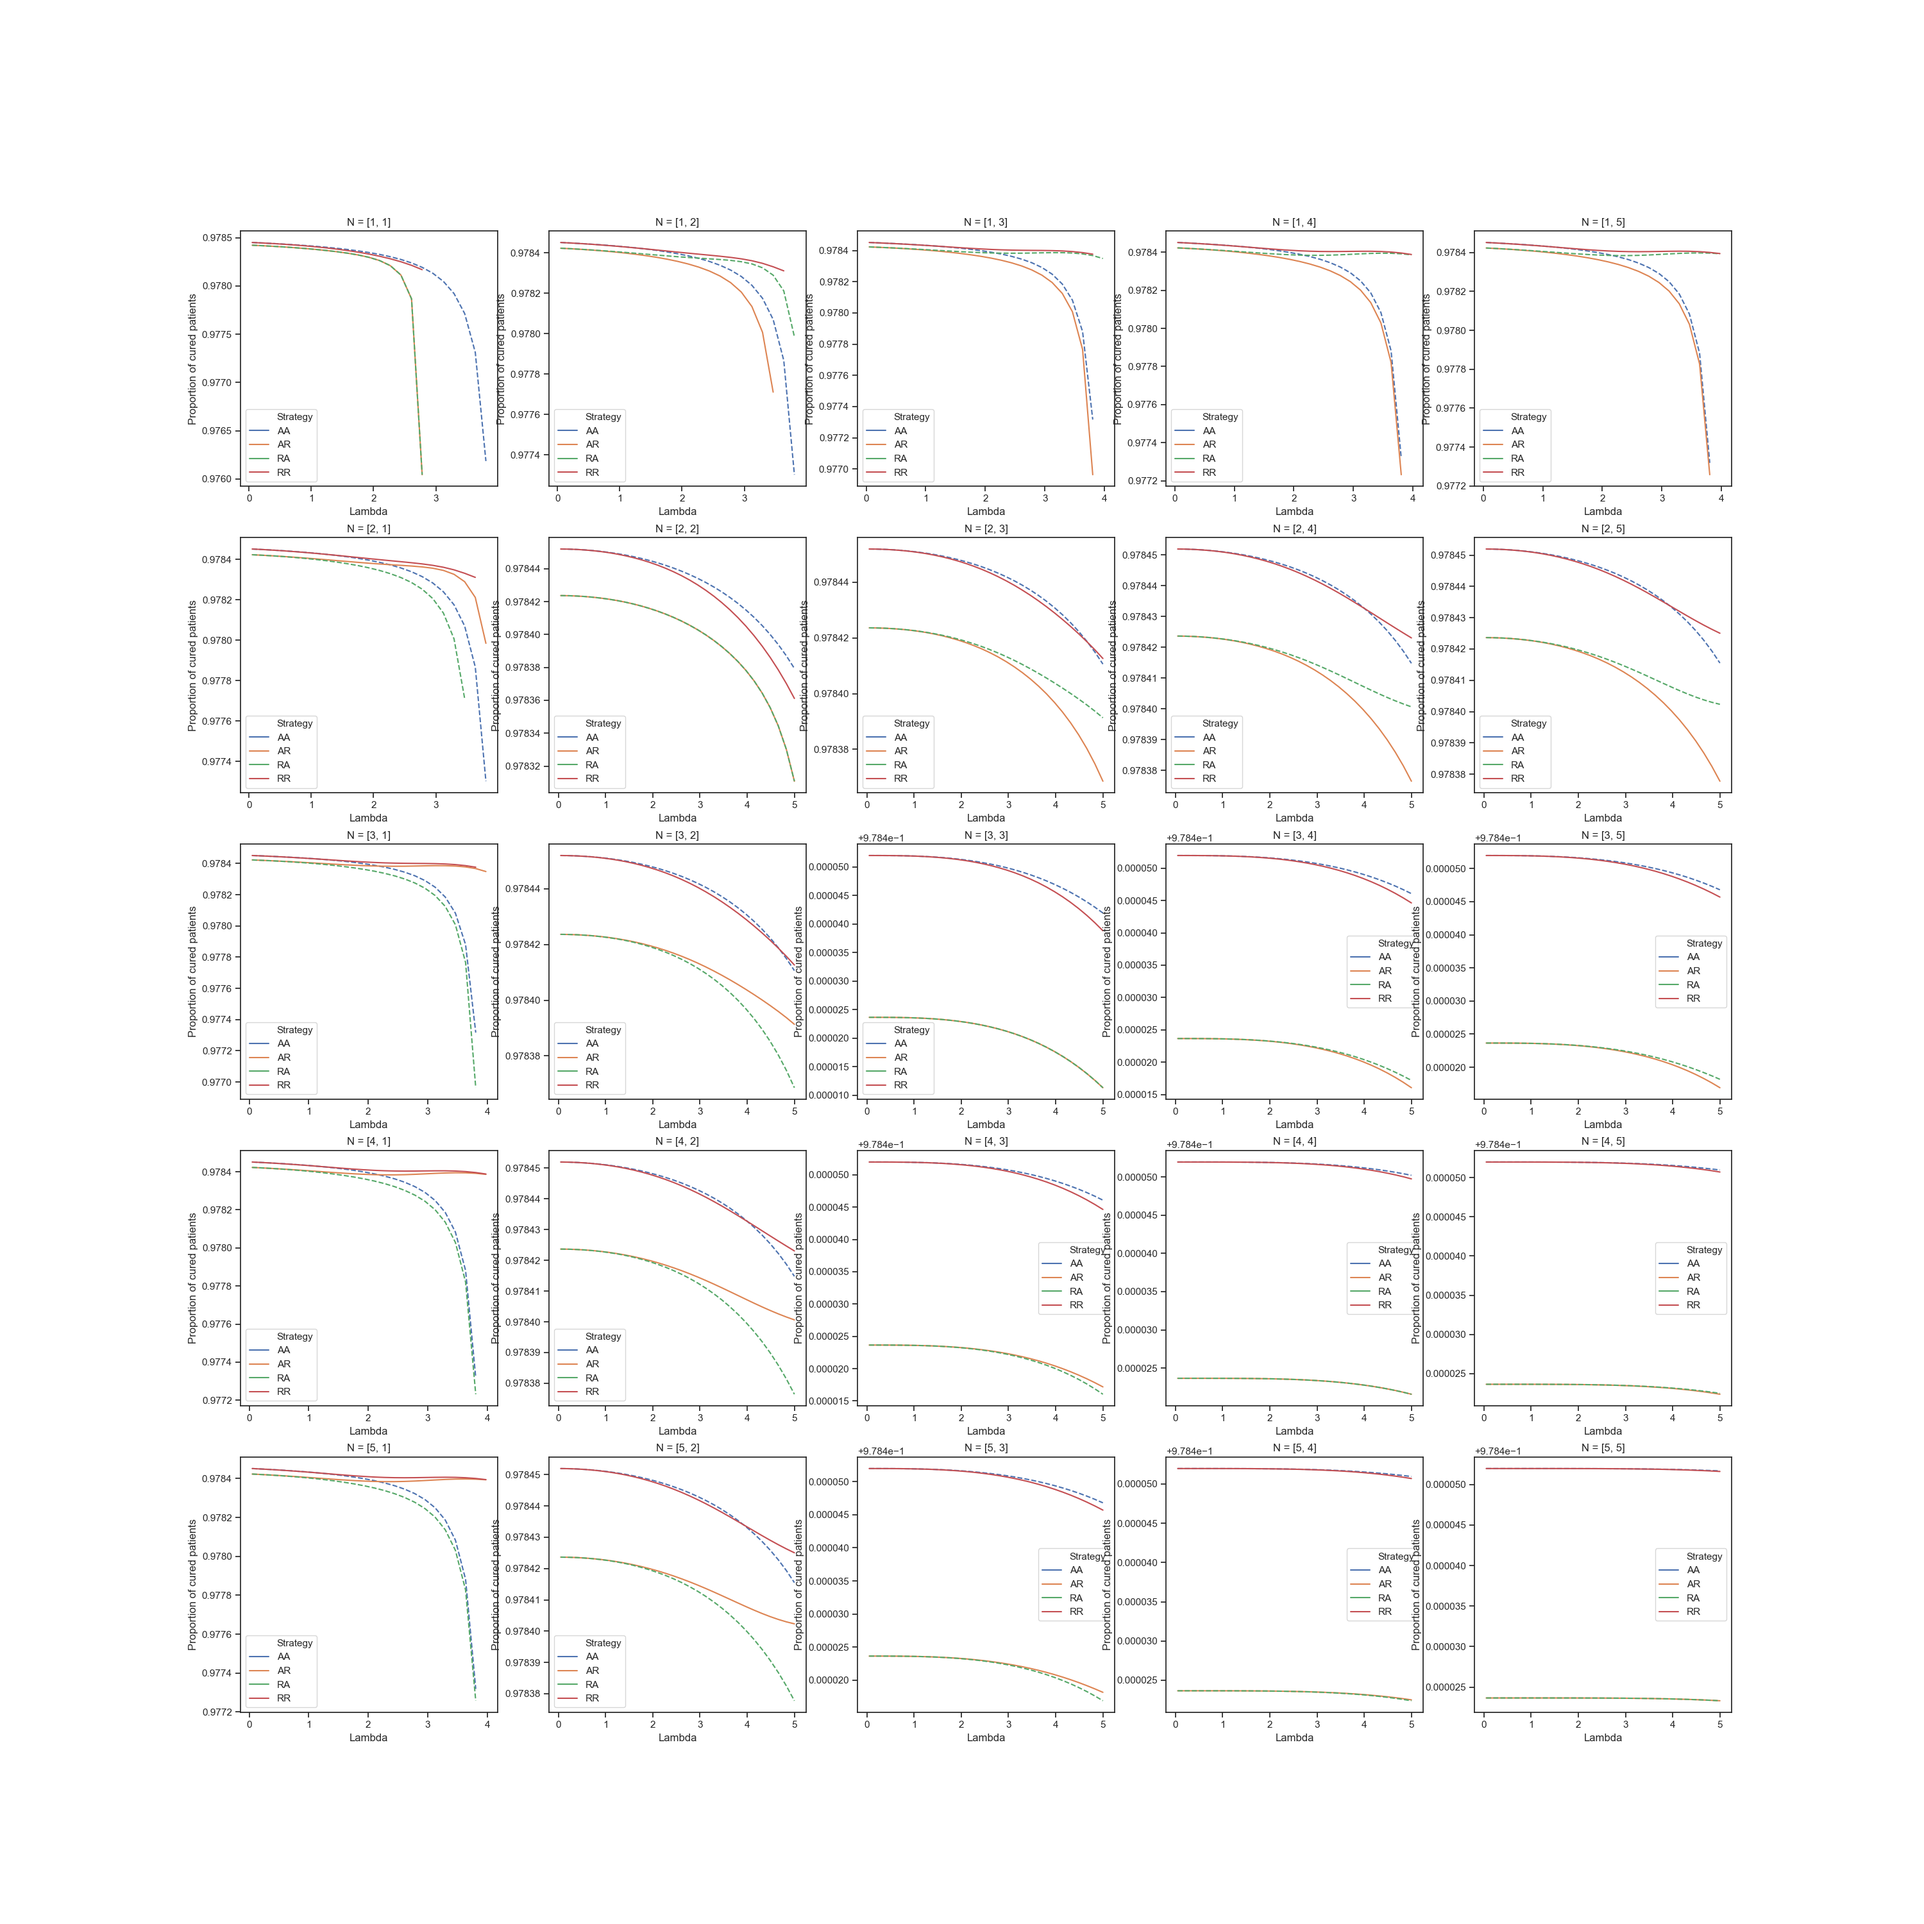
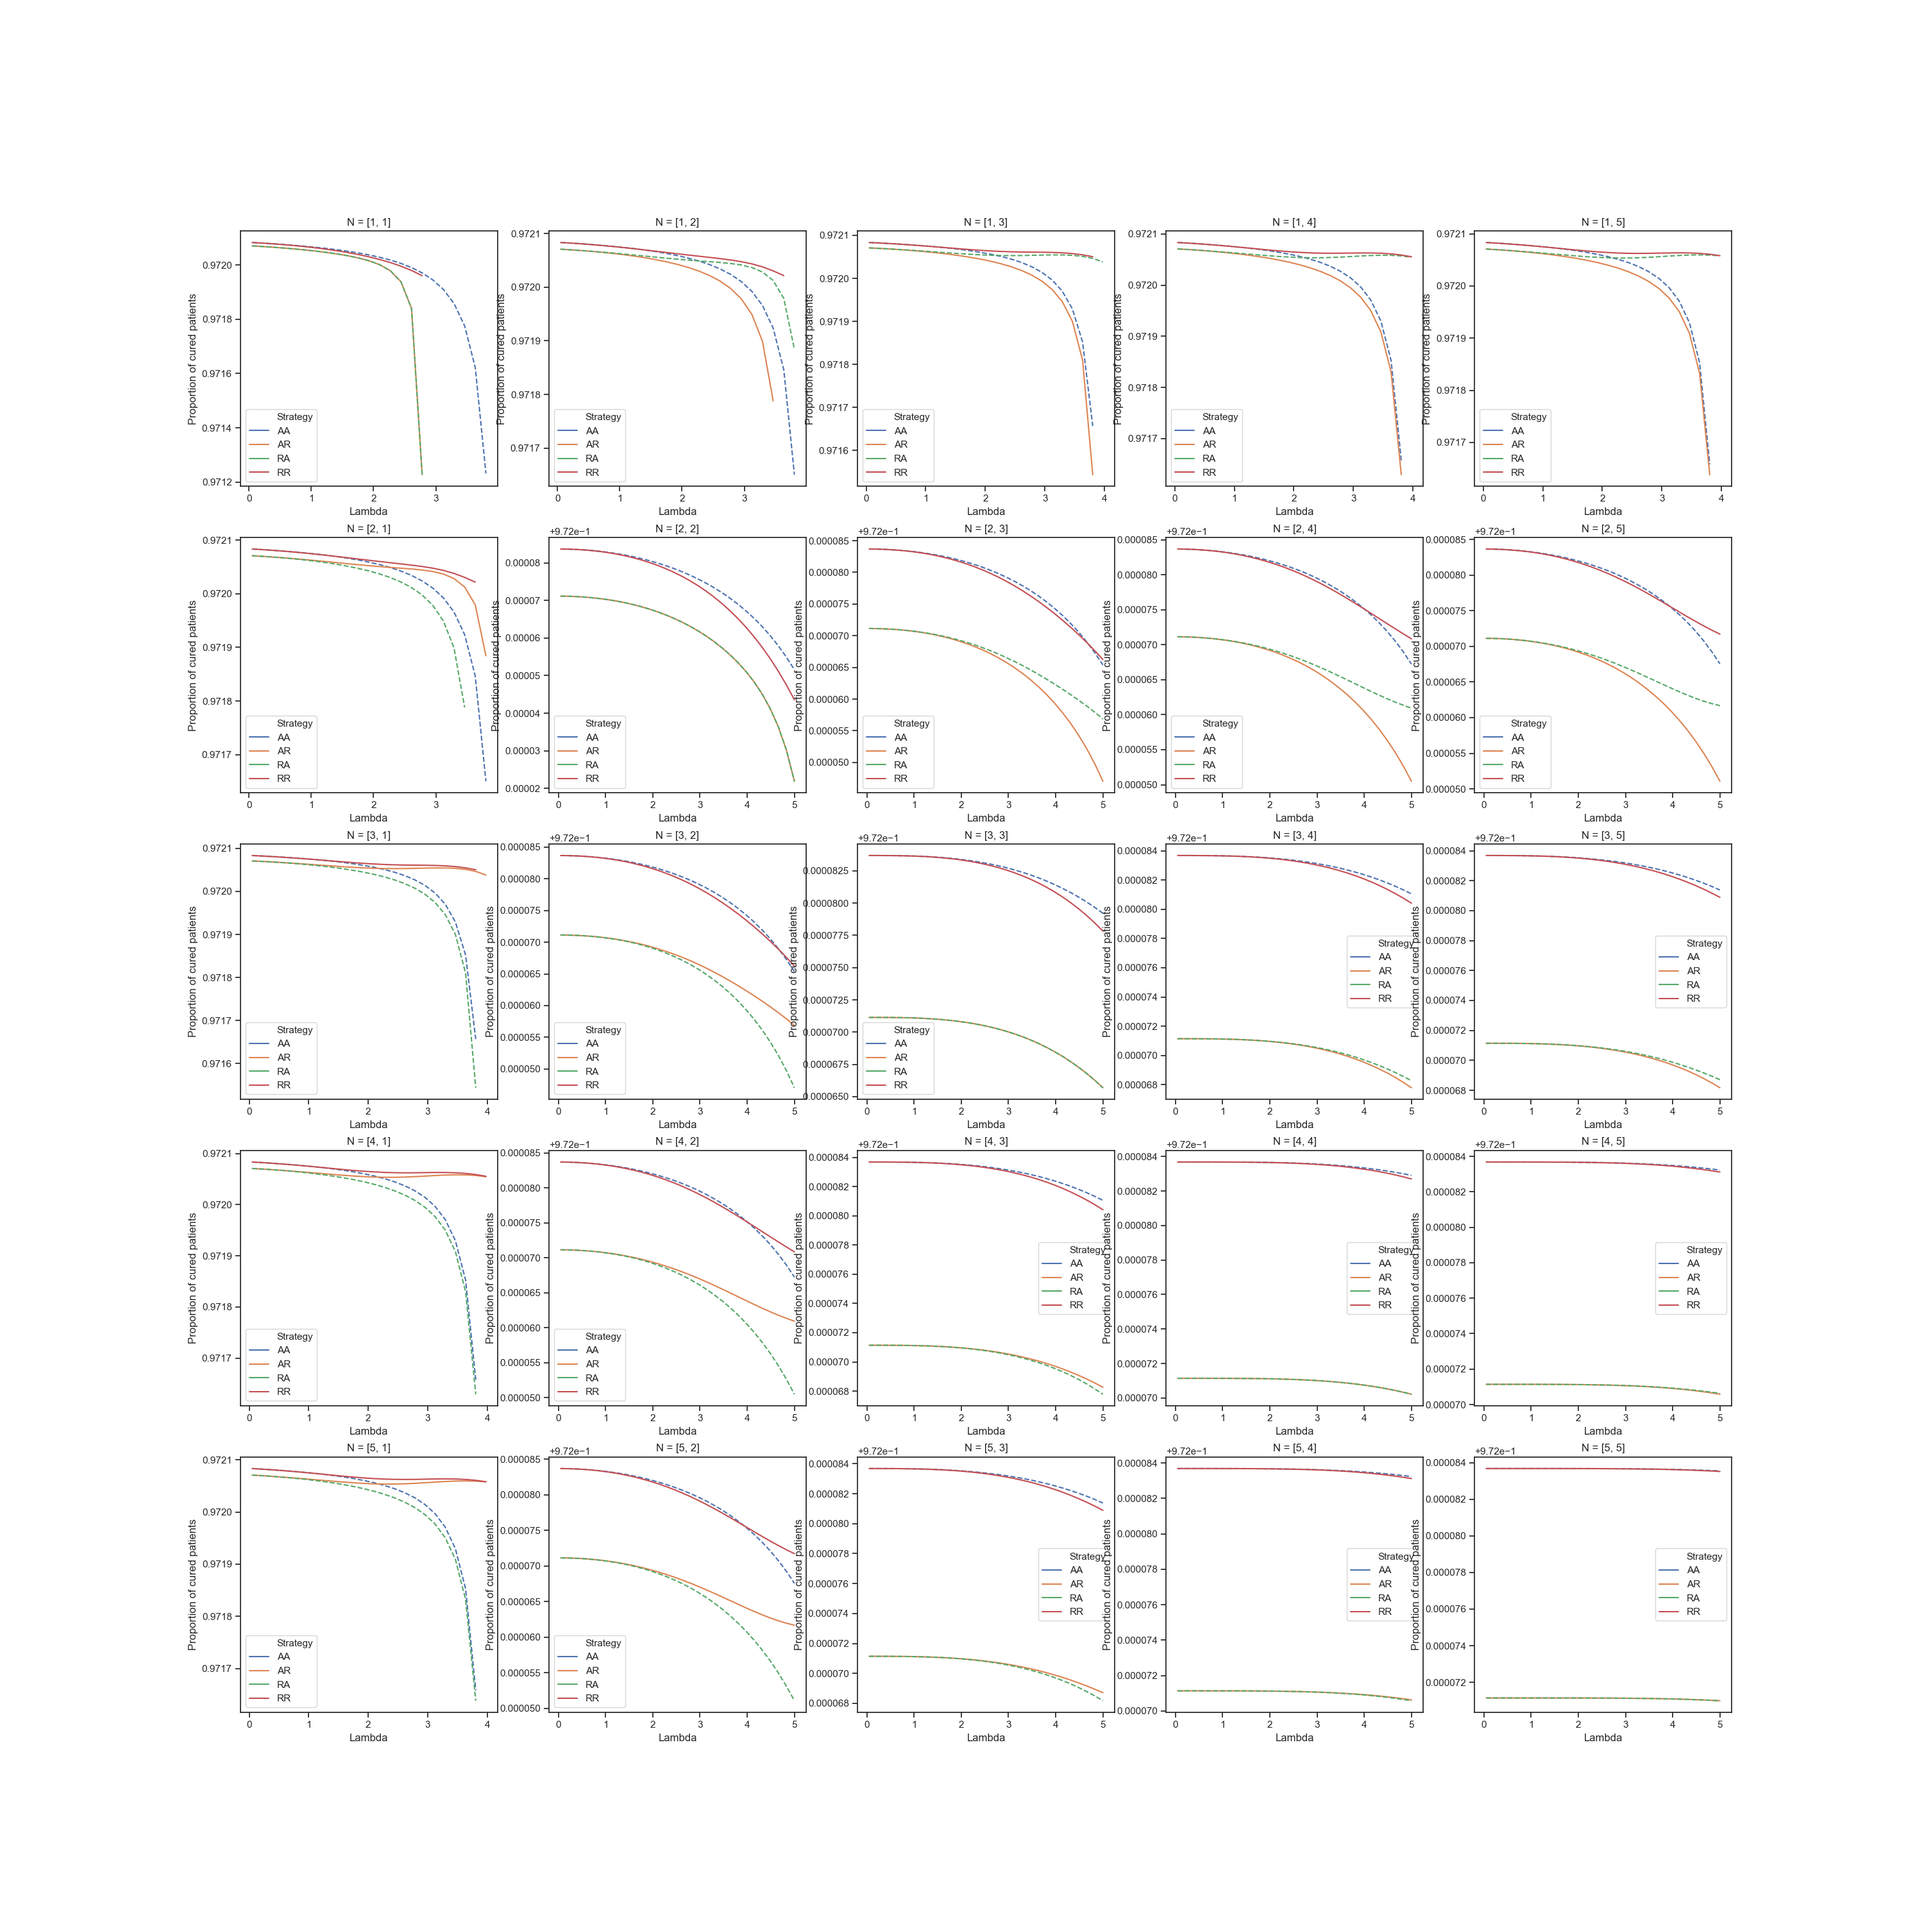
fix d2b function

diff --git a/src/gt/plot/regulation/RegulationPlot.py b/src/gt/plot/regulation/RegulationPlot.py
@@ -39,7 +39,7 @@ class RegulationPlot(PureNashPlot):
 
     def d2b_nash_optima(self, n, revenue):
         matches = 0
-        points = 10
+        points = 20
         for la in np.linspace(0.05, 4, points):
             for mu in np.linspace(0.05, 4, points):
                 model = HospitalWithD2BModel(la, mu, n, N_lim, t_c, revenue, cost_transp, cost_op)
@@ -51,7 +51,7 @@ class RegulationPlot(PureNashPlot):
 
     def m1y_nash_optima(self, n, revenue):
         matches = 0
-        points = 10
+        points = 20
         for la in np.linspace(0.05, 4, points):
             for mu in np.linspace(0.05, 4, points):
                 model = HospitalWith1YM(la, mu, n, N_lim, t_c, revenue, cost_transp + cost_op)
@@ -63,7 +63,7 @@ class RegulationPlot(PureNashPlot):
 
     def base_model_nash_optima(self, n):
         matches = 0
-        points = 10
+        points = 20
         for la in np.linspace(0.05, 4, points):
             for mu in np.linspace(0.05, 4, points):
                 model = HospitalsModel(la, mu, n, N_lim, t_c)
@@ -80,7 +80,7 @@ class RegulationPlot(PureNashPlot):
             'Regulation': ['Transportation and surgery cost'] * 2 + ['Transportation cost'] * 2 + ['No regulation'] * 2,
             'Nash Equ proximity to global Equ': [0, 1] * 2 + [self.base_model_nash_optima(n)] * 2
         }
-        for revenue in np.linspace(1, 30, 10):
+        for revenue in np.linspace(1, 30, 50):
             data['Revenue'].append(revenue)
             data['Regulation'].append('Door-to-balloon time')
             data['Nash Equ proximity to global Equ'].append(self.d2b_nash_optima(n, revenue))
@@ -91,7 +91,8 @@ class RegulationPlot(PureNashPlot):
 
         data = pd.DataFrame(data)
         sns.lineplot(x='Revenue', y='Nash Equ proximity to global Equ', hue='Regulation', data=data, ax=ax)
-        plt.legend(loc='lower right')
+        ax.legend(loc='lower right')
+        [ax.lines[i].set_linestyle("--") for i in [3, 4]]
 
         if ax is not None:
             ax.set_title('N = {}'.format(n))

diff --git a/src/gt/plot/regulation/RegulationHighloadPlot.py b/src/gt/plot/regulation/RegulationHighloadPlot.py
@@ -5,7 +5,7 @@ class RegulationPlot(RegulationPlot):
 
     def d2b_nash_optima(self, n, revenue):
         matches = 0
-        points = 10
+        points = 20
         total_points = 0
         for la in np.linspace(0.05, 4, points):
             for mu in np.linspace(0.05, 4, points):
@@ -20,7 +20,7 @@ class RegulationPlot(RegulationPlot):
 
     def m1y_nash_optima(self, n, revenue):
         matches = 0
-        points = 10
+        points = 20
         total_points = 0
         for la in np.linspace(0.05, 4, points):
             for mu in np.linspace(0.05, 4, points):
@@ -35,7 +35,7 @@ class RegulationPlot(RegulationPlot):
 
     def base_model_nash_optima(self, n):
         matches = 0
-        points = 10
+        points = 20
         total_points = 0
         for la in np.linspace(0.05, 4, points):
             for mu in np.linspace(0.05, 4, points):
@@ -55,7 +55,7 @@ class RegulationPlot(RegulationPlot):
             'Regulation': ['Transportation and surgery cost'] * 2 + ['Transportation cost'] * 2 + ['No regulation'] * 2,
             'Nash Equ proximity to global Equ': [0, 1] * 2 + [self.base_model_nash_optima(n)] * 2
         }
-        for revenue in np.linspace(1, 30, 10):
+        for revenue in np.linspace(1, 30, 50):
             data['Revenue'].append(revenue)
             data['Regulation'].append('Door-to-balloon time')
             data['Nash Equ proximity to global Equ'].append(self.d2b_nash_optima(n, revenue))
@@ -66,7 +66,8 @@ class RegulationPlot(RegulationPlot):
 
         data = pd.DataFrame(data)
         sns.lineplot(x='Revenue', y='Nash Equ proximity to global Equ', hue='Regulation', data=data, ax=ax)
-        plt.legend(loc='lower right')
+        ax.legend(loc='lower right')
+        [ax.lines[i].set_linestyle("--") for i in [3, 4]]
 
         if ax is not None:
             ax.set_title('N = {}'.format(n))

diff --git a/src/gt/core/HospitalWithD2BModel.py b/src/gt/core/HospitalWithD2BModel.py
@@ -11,7 +11,16 @@ class HospitalWithD2BModel(HospitalsModel):
 
     @staticmethod
     def p_mortality(t):
-        return (5.82010582e-05 * t ** 2 + 2.25508870e-02 * t + 2.13785714) / 100
+        sh = t.shape
+        t = t.flatten()
+        # Shitty code for inconsistent case
+        for i, v in zip(range(len(t)), t):
+            if v > 1e8:
+                t[i] = -v
+        t = t.reshape(sh)
+        return np.minimum(
+            (2.83204328e-11 * t ** 5 - 2.11879941e-08 * t ** 4 + 4.61775189e-06 * t ** 3 - 1.91991297e-04 * t ** 2 +
+             1.03594973e-02 * t + 2.78396809), [10.3] * len(t)) / 100
 
     def lambda_cured(self, la, t):
         return la * (1 - self.p_mortality(t))

diff --git a/src/gt/plot/regulation/DoorToBallonNashPlot.py b/src/gt/plot/regulation/DoorToBallonNashPlot.py
@@ -6,7 +6,7 @@ from gt.core.HospitalWithD2BModel import HospitalWithD2BModel
 class D2BPureNashPlot(PureNashPlot):
 
     def find_solution(self, l, mu, n):
-        hospital = HospitalWithD2BModel(l, mu, n, N_lim, t_c, 13, 3, 10)
+        hospital = HospitalWithD2BModel(l, mu, n, N_lim, t_c, 20, 3, 10)
         G = hospital.game_matrix()
         A = self.extract_player_utility(G, 0)
         B = self.extract_player_utility(G, 1)
